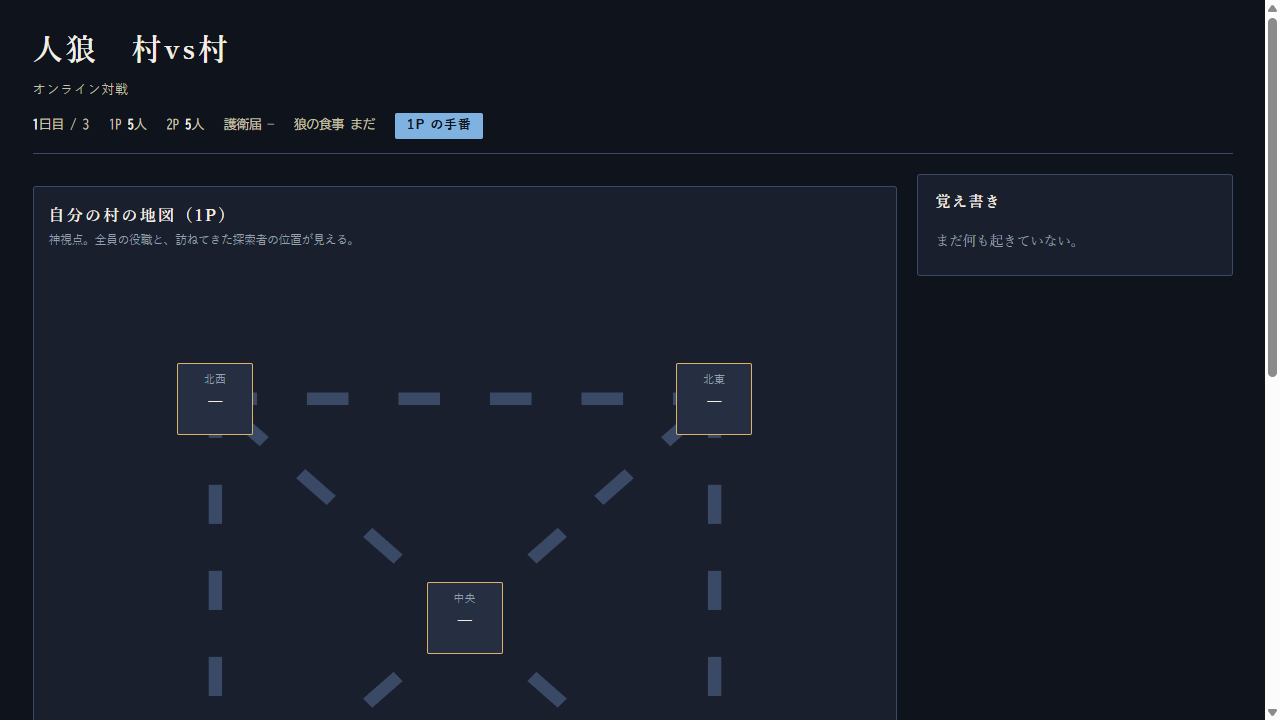
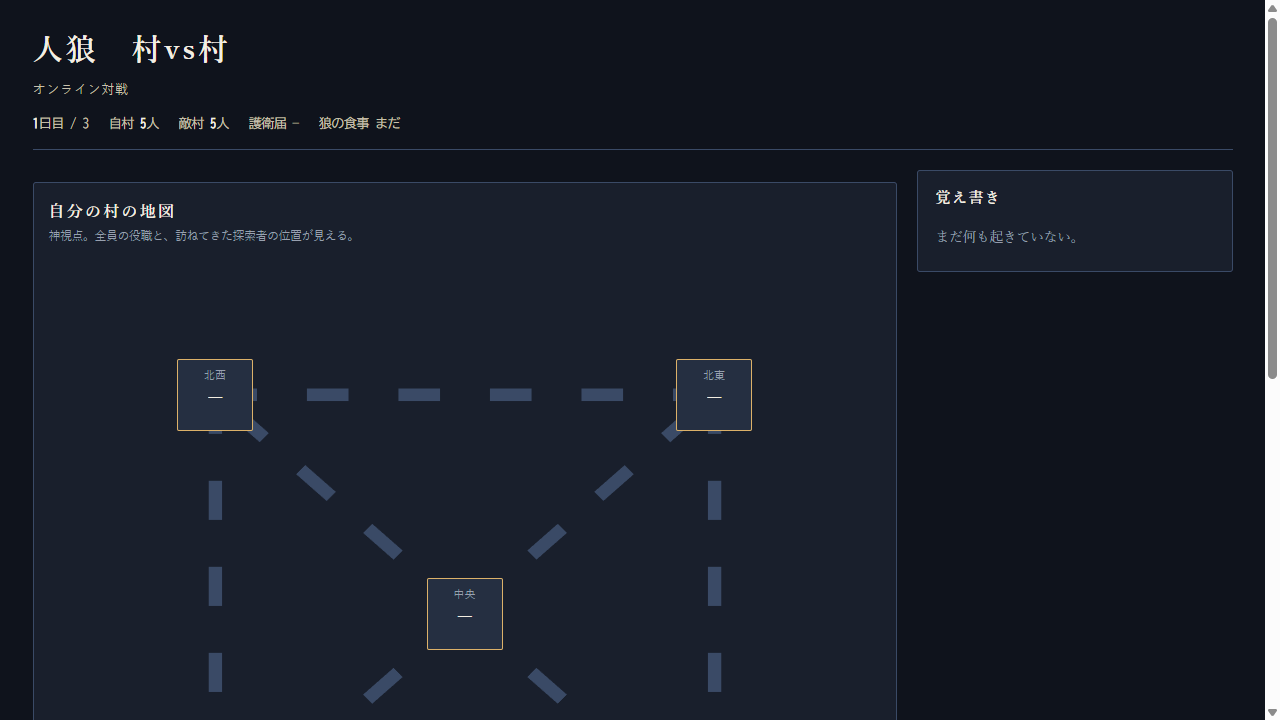
Fix: オンライン対戦のme()/opp()とG同期を修正
【修正1】me()とopp()をオンラインモード対応
- getCurrentRoom().playerId に基づいて自分の村と相手の村を判定
- これにより、ゲスト(playerId=2)も正しく自分の村を操作可能に

【修正2】render()でwindow.Gとモジュールローカル変数Gを同期
- ゲスト側で window.G = gameState.game_data と設定しても
  main.jsのモジュールローカル変数Gは更新されない問題を修正
- render()の最初で window.G をチェックして同期

【修正3】UIテキストを改善
- 「自分の村の地図」/「相手の村の地図」に統一（1P/2P表記を削除）
- ステータス行の「XPの手番」バッジをオンラインモードでは非表示
- 「自村 X人」/「敵村 X人」の表示

【テスト結果】
✅ ホスト・ゲスト共にマップが正しく表示される
✅ ゲスト側でも配置が可能
✅ 「1P/2P」という概念がUIから削除

diff --git a/src/js/main.js b/src/js/main.js
@@ -132,8 +132,20 @@ function pick(m){document.body.style.overflow='';newGame(m,{...TITLE_OPT})}
 /* ================= 参照 ================= */
 const cur=()=>G.sched[G.idx];
 const who=()=>cur().who;
-const me=()=>G.V[who()||1];
-const opp=()=>G.V[other(who()||1)];
+const me=()=>{
+  if(G.mode==='online' && window.getCurrentRoom){
+    const room=window.getCurrentRoom();
+    return G.V[room.playerId];
+  }
+  return G.V[who()||1];
+};
+const opp=()=>{
+  if(G.mode==='online' && window.getCurrentRoom){
+    const room=window.getCurrentRoom();
+    return G.V[room.playerId===1?2:1];
+  }
+  return G.V[other(who()||1)];
+};
 const wolfOf=v=>v.people.find(p=>p.role==='wolf');
 const guardOf=v=>v.people.find(p=>p.role==='guard');
 const alive=v=>v.people.filter(p=>p.alive);
@@ -520,6 +532,10 @@ function applyStage(c,pub){
 
 /* ================= 描画 ================= */
 function render(){
+  // window.Gとモジュールローカル変数Gを同期
+  if(window.G && G!==window.G){
+    G=window.G;
+  }
   if(!G)return;
   const c=cur(),w=who();
   if(G._shown!==G.idx){G.swap=false;G._shown=G.idx;if(document.body.classList)document.body.classList.remove('ledger-open')}   // フェーズが変わったら主従を既定に戻し、覚え書きの引き出しも閉じる
@@ -527,22 +543,24 @@ function render(){
   const M=pub?G.V[G.endView]:me(), F=pub?G.V[other(G.endView)]:opp();
 
   document.getElementById('t-mine').textContent=
-    pub?`${vname(M)}の地図`:(G.mode==='cpu'?'自分の村の地図':`自分の村の地図（${M.id}P）`);
+    pub?`${vname(M)}の地図`:'自分の村の地図';
   document.getElementById('t-foe').textContent=
-    pub?`${vname(F)}の地図`:(G.mode==='cpu'?'相手の村の地図':`相手の村の地図（${F.id}P）`);
+    pub?`${vname(F)}の地図`:'相手の村の地図';
   document.getElementById('ledger-title').textContent=pub?`覚え書き（${vname(M)}）`:'覚え書き';
 
   const st=document.getElementById('status');
   st.innerHTML=`<span><b>${G.day}</b>日目 / ${DAYS}</span>`+
-    (G.mode==='cpu'
-      ? `<span>自村 <b>${alive(G.V[1]).length}</b>人</span><span>敵村 <b>${alive(G.V[2]).length}</b>人</span>`
-      : `<span>1P <b>${alive(G.V[1]).length}</b>人</span><span>2P <b>${alive(G.V[2]).length}</b>人</span>`)+
+    (G.mode==='online'
+      ? `<span>自村 <b>${alive(M).length}</b>人</span><span>敵村 <b>${alive(F).length}</b>人</span>`
+      : (G.mode==='cpu'
+        ? `<span>自村 <b>${alive(G.V[1]).length}</b>人</span><span>敵村 <b>${alive(G.V[2]).length}</b>人</span>`
+        : `<span>1P <b>${alive(G.V[1]).length}</b>人</span><span>2P <b>${alive(G.V[2]).length}</b>人</span>`))+
     (pub
-      ? `<span class="turnbadge pub">${G.mode==='cpu'?'結果':'1P・2P とも観覧可'}</span>`
+      ? `<span class="turnbadge pub">${G.mode==='cpu'?'結果':'結果'}</span>`
       : `<span class="${M.permit?'on':''}">護衛届 ${M.permit?'取得':'—'}</span>`+
         (M.explorer!==null&&guardAway(M)?`<span style="color:var(--akane-glow)">護衛は探索中</span>`:'')+
         `<span>狼の食事 ${M.fed?'済':'まだ'}</span>`+
-        (G.mode==='cpu'?'':`<span class="turnbadge p${w}">${w}P の手番</span>`));
+        (G.mode==='cpu'||G.mode==='online'?'':`<span class="turnbadge p${w}">${w}P の手番</span>`));
 
   const wl=wolfOf(M);
   const sharpH=(!pub&&M.sharpenStart!==null&&wl.alive)?wl.house:null;

diff --git a/test-debug-guest.js b/test-debug-guest.js
@@ -1,0 +1,63 @@
+// ゲスト側のデバッグテスト
+const { chromium } = require('playwright');
+
+(async () => {
+  const browser = await chromium.launch({ headless: false });
+  const hostPage = await browser.newPage();
+  const guestPage = await browser.newPage();
+
+  // ホスト: ルーム作成
+  await hostPage.goto('http://localhost:5174/');
+  await hostPage.waitForTimeout(1000);
+  await hostPage.click('button:has-text("オンライン対戦")');
+  await hostPage.waitForTimeout(500);
+  await hostPage.click('button:has-text("ルームを作成")');
+  await hostPage.waitForTimeout(500);
+  await hostPage.fill('#host-name-input', 'ホスト');
+  await hostPage.click('button:has-text("ルーム作成")');
+  await hostPage.waitForTimeout(2000);
+
+  const roomCodeElement = await hostPage.locator('div:has-text("この暗証番号を友達に教えてください")').locator('..').locator('div[style*="font-size:48px"]');
+  const roomCode = await roomCodeElement.textContent();
+  console.log(`ルームコード: ${roomCode.trim()}`);
+
+  // ゲスト: ルーム参加
+  await guestPage.goto('http://localhost:5174/');
+  await guestPage.waitForTimeout(1000);
+  await guestPage.click('button:has-text("オンライン対戦")');
+  await guestPage.waitForTimeout(500);
+  await guestPage.click('button:has-text("ルームに参加")');
+  await guestPage.waitForTimeout(500);
+  await guestPage.fill('#guest-name-input', 'ゲスト');
+  await guestPage.fill('#room-code-input', roomCode.trim());
+  await guestPage.click('button:has-text("参加")');
+  await guestPage.waitForTimeout(3000);
+
+  // デバッグ情報を取得
+  const guestDebug = await guestPage.evaluate(() => {
+    const room = window.getCurrentRoom ? window.getCurrentRoom() : null;
+    const G = window.G;
+    const me = window.me ? window.me() : null;
+    const opp = window.opp ? window.opp() : null;
+
+    return {
+      hasGetCurrentRoom: !!window.getCurrentRoom,
+      room: room,
+      hasG: !!G,
+      G: G ? { mode: G.mode, idx: G.idx, sched_length: G.sched?.length } : null,
+      hasMe: !!window.me,
+      me: me ? { id: me.id, placeIdx: me.placeIdx } : null,
+      hasOpp: !!window.opp,
+      opp: opp ? { id: opp.id } : null,
+    };
+  });
+
+  console.log('\n=== ゲスト側デバッグ情報 ===');
+  console.log(JSON.stringify(guestDebug, null, 2));
+
+  await guestPage.screenshot({ path: 'debug-guest.png' });
+  console.log('\nスクリーンショット: debug-guest.png');
+
+  await browser.waitForEvent('close', { timeout: 30000 }).catch(() => {});
+  await browser.close();
+})();

diff --git a/test-debug-guest2.js b/test-debug-guest2.js
@@ -1,0 +1,55 @@
+// ゲスト側のG.V構造を確認
+const { chromium } = require('playwright');
+
+(async () => {
+  const browser = await chromium.launch({ headless: false });
+  const hostPage = await browser.newPage();
+  const guestPage = await browser.newPage();
+
+  // ホスト: ルーム作成
+  await hostPage.goto('http://localhost:5174/');
+  await hostPage.waitForTimeout(1000);
+  await hostPage.click('button:has-text("オンライン対戦")');
+  await hostPage.waitForTimeout(500);
+  await hostPage.click('button:has-text("ルームを作成")');
+  await hostPage.waitForTimeout(500);
+  await hostPage.fill('#host-name-input', 'ホスト');
+  await hostPage.click('button:has-text("ルーム作成")');
+  await hostPage.waitForTimeout(2000);
+
+  const roomCodeElement = await hostPage.locator('div:has-text("この暗証番号を友達に教えてください")').locator('..').locator('div[style*="font-size:48px"]');
+  const roomCode = await roomCodeElement.textContent();
+  console.log(`ルームコード: ${roomCode.trim()}`);
+
+  // ゲスト: ルーム参加
+  await guestPage.goto('http://localhost:5174/');
+  await guestPage.waitForTimeout(1000);
+  await guestPage.click('button:has-text("オンライン対戦")');
+  await guestPage.waitForTimeout(500);
+  await guestPage.click('button:has-text("ルームに参加")');
+  await guestPage.waitForTimeout(500);
+  await guestPage.fill('#guest-name-input', 'ゲスト');
+  await guestPage.fill('#room-code-input', roomCode.trim());
+  await guestPage.click('button:has-text("参加")');
+  await guestPage.waitForTimeout(3000);
+
+  // G.Vの構造を確認
+  const guestGV = await guestPage.evaluate(() => {
+    if (!window.G || !window.G.V) return { error: 'G.V not found' };
+    return {
+      hasV: !!window.G.V,
+      V_keys: Object.keys(window.G.V),
+      V1_exists: !!window.G.V[1],
+      V2_exists: !!window.G.V[2],
+      V1_id: window.G.V[1]?.id,
+      V2_id: window.G.V[2]?.id,
+      V1_placeIdx: window.G.V[1]?.placeIdx,
+      V2_placeIdx: window.G.V[2]?.placeIdx,
+    };
+  });
+
+  console.log('\n=== ゲスト側 G.V 構造 ===');
+  console.log(JSON.stringify(guestGV, null, 2));
+
+  await browser.close();
+})();
